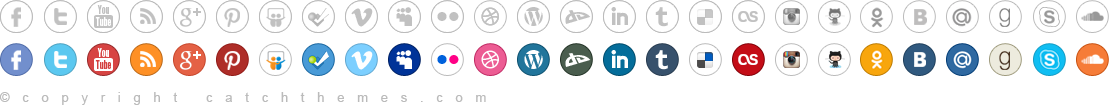
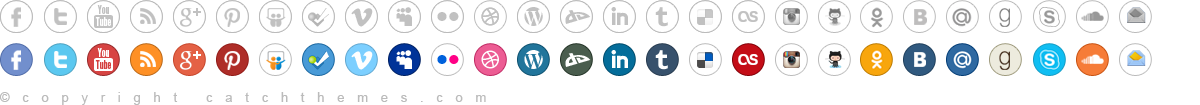
New version of Adventurous - 1.0

diff --git a/inc/panel/admin.min.css b/inc/panel/admin.min.css
@@ -1,1 +1,1 @@
-#adventurous_ad_tabs:after,#catchthemes .row:after,#catchthemes:after,#theme-option-title:after,#theme-support:after{content:"\0020";display:block;height:0;clear:both;visibility:hidden}.clear{clear:both}#catchthemes{background-color:#fff;box-shadow:0 2px 6px rgba(100,100,100,.3);margin:10px 20px 10px 0;padding-bottom:30px}#catchthemes .updated{display:inline;float:right}#catchthemes #theme-option-header{background-color:#3A3D41;padding:10px 20px 20px}#catchthemes #theme-social{float:right;width:330px}#catchthemes #theme-social ul li{display:inline;float:right}#catchthemes #theme-option-title{float:left}#catchthemes #theme-option-title .title{color:#fff;float:left;font-size:21px;line-height:53px;padding:0 10px 0 0;text-shadow:none}#catchthemes #theme-option-title .logo{float:left;padding:0}#catchthemes #theme-support{clear:both;text-align:right}#catchthemes #theme-support ul li{display:inline}#catchthemes #theme-support a{opacity:.8;-moz-opacity:.8}#catchthemes #theme-support a:hover{opacity:1;-moz-opacity:1}#catchthemes .tabNavigation{background-color:#000;margin:0 auto;text-align:center;font:13px Georgia,"Times New Roman","Bitstream Charter",Times,serif;line-height:18px}#catchthemes .tabNavigation li{display:inline-block;margin:0}#catchthemes .tabNavigation li a{color:#EEE;display:block;font-size:15px;line-height:38px;outline:0;padding:0 15px;text-decoration:none;text-transform:capitalize}#catchthemes .tabNavigation li a:hover,#catchthemes .tabNavigation li.ui-state-active a{background-color:#dfdfdf;color:#000}#catchthemes .option-container{margin:0 auto;width:98%}#catchthemes .tabNavigation .ui-tabs-selected a{background:url('../../../../../wp-admin/images/menu-bits.gif') repeat-x left top #E0E0E0;border-color:#aaa!important;color:#000}#catchthemes h3.option-toggle{-webkit-border-top-left-radius:3px;-webkit-border-top-right-radius:3px;-moz-border-radius-topleft:3px;-moz-border-radius-topright:3px;border-top-left-radius:3px;border-top-right-radius:3px;margin:20px 0 0;border:1px solid #dfdfdf;background-color:#F1F1F1;background-image:-ms-linear-gradient(top,#f9f9f9,#ececec);background-image:-moz-linear-gradient(top,#f9f9f9,#ececec);background-image:-o-linear-gradient(top,#f9f9f9,#ececec);background-image:-webkit-gradient(linear,left top,left bottom,from(#f9f9f9),to(#ececec));background-image:-webkit-linear-gradient(top,#f9f9f9,#ececec);background-image:linear-gradient(top,#f9f9f9,#ececec);height:34px;line-height:34px;font-size:15px;font-weight:400;float:left;padding:0;width:99%}#catchthemes h3.option-toggle a{background:url(images/arrow-light.png) 99% 50% no-repeat;color:#464646;padding-left:10px;text-decoration:none;display:block;text-shadow:#fff 0 1px 0}#catchthemes h3.option-active a,#catchthemes h3.option-toggle a:hover{background:url(images/arrow-dark.png) 99% 50% no-repeat;color:#444}#catchthemes .option-content{-webkit-border-bottom-right-radius:3px;-webkit-border-bottom-left-radius:3px;-moz-border-radius-bottomright:3px;-moz-border-radius-bottomleft:3px;border-bottom-right-radius:3px;border-bottom-left-radius:3px;margin:0;padding:15px 0 0;border:1px solid #dfdfdf;border-top:none;background:#fcfcfc;overflow:hidden;font-size:13px;clear:both;color:#333;width:99%}#catchthemes .option-content .row{padding:0 15px 15px}#catchthemes .page-slider .option-content .row,#catchthemes .post-slider .option-content .row{padding:15px}#catchthemes .option-content .col{display:inline;float:left}#catchthemes .option-content .col-1{font-weight:700;padding-right:15px;width:250px}#catchthemes .option-content .col-1 p{margin:0}#catchthemes .option-content .col-1 small{font-size:10px;font-weight:400}#catchthemes .option-content .col-header{display:block;font-weight:700}#catchthemes .option-content .col-options{clear:both;display:block}#catchthemes .option-content .col-options .box{display:inline-block;float:left;margin-left:10px;width:120px}#catchthemes .option-content .col-options .box.first{margin-left:0}#catchthemes .option-content .col-options .box img{max-width:100%;height:auto}#catchthemes .option-content .button-primary{background-color:#2ea2cc;border-color:#0074a2;color:#fff;text-decoration:none}#catchthemes .repeat-content-wrap{border:1px solid #ccc;margin:10px}#catchthemes .repeat-content-wrap h2{font-size:14px;font-weight:700;line-height:1.5;padding:10px 15px}#catchthemes .option-content select[multiple]{min-height:200px;width:360px}#catchthemes .option-content .wp-editor-container{width:600px}#catchthemes .option-content .wp-editor-area{min-height:130px}#catchthemes #upgradepro{clear:left;float:right;padding-bottom:20px}#catchthemes #upgradepro .button{color:#fff;border:none;padding:0 16px;text-shadow:none;opacity:.8;-moz-opacity:.8;filter:alpha(opacity=80);font-size:14px;height:34px;line-height:36px;-webkit-border-radius:15px;-moz-border-radius:15px;border-radius:15px;text-transform:uppercase;background:none #5E8C10}#catchthemes #upgradepro a:hover{opacity:1;-moz-opacity:1;filter:alpha(opacity=100)}#catchthemes .button.donate{background:none #5e8c10;color:#fff;font-weight:700;text-shadow:none}@media screen and (max-width:780px){#catchthemes .option-content .col{width:100%}#catchthemes .option-content input[type=text],#catchthemes .option-content textarea{width:98%}}
+#adventurous_ad_tabs:after,#catchthemes .row:after,#catchthemes:after,#theme-option-title:after,#theme-support:after{content:"\0020";display:block;height:0;clear:both;visibility:hidden}.clear{clear:both}#catchthemes{background-color:#fff;box-shadow:0 2px 6px rgba(100,100,100,.3);margin:10px 20px 10px 0;padding-bottom:30px}#catchthemes .updated{display:inline;float:right}#catchthemes #theme-option-header{background-color:#3A3D41;padding:10px 20px 20px}#catchthemes #theme-social{float:right;width:330px}#catchthemes #theme-social ul li{display:inline;float:right}#catchthemes #theme-option-title{float:left}#catchthemes #theme-option-title .title{color:#fff;float:left;font-size:21px;line-height:53px;padding:0 10px 0 0;text-shadow:none}#catchthemes #theme-option-title .logo{float:left;padding:0}#catchthemes #theme-support{clear:both;text-align:right}#catchthemes #theme-support ul li{display:inline}#catchthemes #theme-support a{opacity:.8;-moz-opacity:.8}#catchthemes #theme-support a:hover{opacity:1;-moz-opacity:1}#catchthemes .tabNavigation{background-color:#000;margin:0 auto;text-align:center;font:13px Georgia,"Times New Roman","Bitstream Charter",Times,serif;line-height:18px}#catchthemes .tabNavigation li{display:inline-block;margin:0}#catchthemes .tabNavigation li a{color:#EEE;display:block;font-size:15px;line-height:38px;outline:0;padding:0 15px;text-decoration:none;text-transform:capitalize}#catchthemes .tabNavigation li a:hover,#catchthemes .tabNavigation li.ui-state-active a{background-color:#dfdfdf;color:#000}#catchthemes .option-container{margin:0 auto;width:98%}#catchthemes .tabNavigation .ui-tabs-selected a{background:url('../../../../../wp-admin/images/menu-bits.gif') repeat-x left top #E0E0E0;border-color:#aaa!important;color:#000}#catchthemes h3.option-toggle{-webkit-border-top-left-radius:3px;-webkit-border-top-right-radius:3px;-moz-border-radius-topleft:3px;-moz-border-radius-topright:3px;border-top-left-radius:3px;border-top-right-radius:3px;margin:20px 0 0;border:1px solid #dfdfdf;background-color:#F1F1F1;background-image:-ms-linear-gradient(top,#f9f9f9,#ececec);background-image:-moz-linear-gradient(top,#f9f9f9,#ececec);background-image:-o-linear-gradient(top,#f9f9f9,#ececec);background-image:-webkit-gradient(linear,left top,left bottom,from(#f9f9f9),to(#ececec));background-image:-webkit-linear-gradient(top,#f9f9f9,#ececec);background-image:linear-gradient(top,#f9f9f9,#ececec);height:34px;line-height:34px;font-size:15px;font-weight:400;float:left;padding:0;width:99%}#catchthemes h3.option-toggle a{background:url(images/arrow-light.png) 99% 50% no-repeat;color:#464646;padding-left:10px;text-decoration:none;display:block;text-shadow:#fff 0 1px 0}#catchthemes h3.option-active a,#catchthemes h3.option-toggle a:hover{background:url(images/arrow-dark.png) 99% 50% no-repeat;color:#444}#catchthemes .option-content{-webkit-border-bottom-right-radius:3px;-webkit-border-bottom-left-radius:3px;-moz-border-radius-bottomright:3px;-moz-border-radius-bottomleft:3px;border-bottom-right-radius:3px;border-bottom-left-radius:3px;margin:0;padding:15px 0 0;border:1px solid #dfdfdf;border-top:none;background:#fcfcfc;overflow:hidden;font-size:13px;clear:both;color:#333;width:99%}#catchthemes .option-content .row{padding:0 15px 15px}#catchthemes .page-slider .option-content .row,#catchthemes .post-slider .option-content .row{padding:15px}#catchthemes .option-content .col{display:inline;float:left}#catchthemes .option-content .col-1{font-weight:700;padding-right:15px;width:250px}#catchthemes .option-content .col-1 p{margin:0}#catchthemes .option-content .col-1 small{font-size:10px;font-weight:400}#catchthemes .option-content .col-header{display:block;font-weight:700}#catchthemes .option-content .col-options{clear:both;display:block}#catchthemes .option-content .col-options .box{display:inline-block;float:left;margin-left:10px;width:120px}#catchthemes .option-content .col-options .box.first{margin-left:0}#catchthemes .option-content .col-options .box img{max-width:100%;height:auto}#catchthemes .option-content .button-primary{background-color:#2ea2cc;border-color:#0074a2;color:#fff;text-decoration:none}#catchthemes .repeat-content-wrap{border:1px solid #ccc;margin:10px}#catchthemes .repeat-content-wrap h2{font-size:14px;font-weight:700;line-height:1.5;padding:10px 15px}#catchthemes .option-content select[multiple]{min-height:200px;width:360px}#catchthemes .option-content .wp-editor-container{width:600px}#catchthemes .option-content .wp-editor-area{min-height:130px}#catchthemes #upgradepro{float:right;padding-bottom:20px}#catchthemes #upgradepro .button{color:#fff;border:none;padding:0 16px;text-shadow:none;opacity:.8;-moz-opacity:.8;filter:alpha(opacity=80);font-size:14px;height:34px;line-height:36px;-webkit-border-radius:15px;-moz-border-radius:15px;border-radius:15px;text-transform:uppercase;background:none #5E8C10}#catchthemes #upgradepro a:hover{opacity:1;-moz-opacity:1;filter:alpha(opacity=100)}#catchthemes .button.donate{background:none #5e8c10;color:#fff;font-weight:700;text-shadow:none}@media screen and (max-width:780px){#catchthemes .option-content .col{width:100%}#catchthemes .option-content input[type=text],#catchthemes .option-content textarea{width:98%}}

diff --git a/style.css b/style.css
@@ -4,7 +4,7 @@ Theme URI: http://catchthemes.com/themes/adventurous
 Author: Catch Themes Team
 Author URI: http://catchthemes.com
 Description: Adventurous is a Simple, Clean, Minimal, Lightweight, Box-Shaped and Full-Width Responsive WordPress Theme. It is based in HTML5, CSS3 and very own Catch Themes easy to use Theme Options panel, which make this theme highly customizable and flexible.  Make your beautiful yet professional website in no time. Adventurous is a multi-purpose theme and is suitable for Photographers, Bloggers and Businesses. This theme is translation ready and also currently translated in Brazilian Portuguese and Hungarian. Check out Theme Instructions at http://catchthemes.com/theme-instructions/adventurous/, Support at http://catchthemes.com/support/ and Demo at http://catchthemes.com/demo/adventurous/ 
-Version: 0.8
+Version: 1.0
 License: GNU General Public License, version 3 (GPLv3)
 License URI: http://www.gnu.org/licenses/gpl-3.0.txt
 Tags: black, blue, gray, green, white, dark,light, one-column, two-columns, left-sidebar, right-sidebar, fixed-layout, fluid-layout, responsive-layout, custom-background, custom-colors, custom-header, custom-menu, featured-image-header, featured-images, flexible-header, front-page-post-form, full-width-template, post-formats, sticky-post, theme-options, threaded-comments, translation-ready, holiday, photoblogging
@@ -1588,8 +1588,39 @@ object {
 }
 
 
+/* =Scrollup
+----------------------------------------------- */
+
+a#scrollup {
+	background-color: #000;
+	bottom: 20px;
+	border-radius: 5px;
+	-moz-border-radius: 5px;
+	-webkit-border-radius: 5px;
+	color: #fff;
+	display: none;
+	-webkit-font-smoothing: antialiased;
+	font: normal 24px/1 'Genericons';
+	padding: 5px;
+	position: fixed;
+	right: 20px;
+	text-decoration: none;
+	vertical-align: top;
+	opacity: 0.5;
+	filter:alpha(opacity=50); /* For IE8 and earlier */
+}
+a#scrollup:before {
+	content: '\f432';
+}
+a#scrollup:hover {
+	opacity: 1;
+	filter:alpha(opacity=100); /* For IE8 and earlier */
+}
+
+
 /* =Jetpack plugins
 ----------------------------------------------- */
+
 /* Infinite Scroller */
 #content #infinite-handle {
     display: block;
@@ -1972,6 +2003,12 @@ ul.social-profile li.soundcloud a {
 }
 ul.social-profile li.soundcloud a:hover {
 	background-position: -1076px -43px;
+}
+ul.social-profile li.email a {
+	background-position: -1119px 0;
+}
+ul.social-profile li.email a:hover {
+	background-position: -1119px -43px;
 }
 ul.social-profile li.custom-social a {
 	background: none;

diff --git a/js/adventurous-custom.min.js b/js/adventurous-custom.min.js
@@ -1,0 +1,1 @@
+jQuery(document).ready(function(){function t(e,t,n,r){var i;e.clone().attr("id",n).removeClass().attr("class",r).appendTo(t);i=t.find("> ul");i.find(".menu_slide").remove();i.find("li:first").addClass("menu-mobile-first-item");t.click(function(){if(jQuery(this).hasClass("closed")){jQuery(this).removeClass("closed").addClass("opened");i.slideDown(500)}else{jQuery(this).removeClass("opened").addClass("closed");i.slideUp(500)}return false});t.find("a").click(function(e){e.stopPropagation()})}var e=jQuery("#header-search");e.click(function(){var e=jQuery(this),t=e.siblings(".header-search-wrap");if(t.hasClass("displaynone")){t.css({display:"block",opacity:0}).animate({opacity:1},300)}else{t.animate({opacity:0},300)}t.toggleClass("displaynone")});if(jQuery.fn.waypoint){jQuery("#main-wrapper").waypoint({offset:10,handler:function(e){if(e==="down"){jQuery("#masthead").addClass("fixed-header")}else{jQuery("#masthead").removeClass("fixed-header")}}})}t(jQuery("#header-menu ul.menu"),jQuery("#header-mobile-menu .mobile-nav"),"header-mobile-menu-block","mobile-menu");t(jQuery("#access-secondary ul.menu"),jQuery("#secondary-mobile-menu .mobile-nav"),"secondary-mobile-menu-block","mobile-menu");jQuery("#scrollup").hide();jQuery(function(){jQuery(window).scroll(function(){if(jQuery(this).scrollTop()>1e3){jQuery("#scrollup").fadeIn()}else{jQuery("#scrollup").fadeOut()}});jQuery("#scrollup").click(function(){jQuery("body,html").animate({scrollTop:0},800);return false})})})

diff --git a/js/adventurous-custom.js b/js/adventurous-custom.js
@@ -53,6 +53,23 @@ jQuery(document).ready(function() {
 				event.stopPropagation();
 			} );
 		}		
-		
-				
+
+		//Scroll Up
+		jQuery("#scrollup").hide();
+		jQuery(function () {
+			jQuery(window).scroll(function () {
+				if (jQuery(this).scrollTop() > 1000) {
+					jQuery('#scrollup').fadeIn();
+				} else {
+					jQuery('#scrollup').fadeOut();
+				}
+			});
+			jQuery('#scrollup').click(function () {
+				jQuery('body,html').animate({
+					scrollTop: 0
+				}, 800);
+				return false;
+			});
+		});
+	
 });		

diff --git a/css/responsive.css b/css/responsive.css
@@ -372,6 +372,10 @@ and (orientation : landscape) {
 	.widget.widget_nav_menu .sb-holder a:hover {
 		color: #fff;
 	}	
+	a#scrollup {
+		font-size: 20px;
+		padding: 3px;
+	}		
 }
 
 

diff --git a/inc/panel/admin.css b/inc/panel/admin.css
@@ -226,7 +226,6 @@
 	min-height: 130px;
 }
 #catchthemes #upgradepro {
-	clear: left;
     float: right;
 	padding-bottom: 20px;
 }

diff --git a/inc/adventurous-functions.php b/inc/adventurous-functions.php
@@ -47,7 +47,7 @@ function adventurous_scripts() {
 	 * Loads up jQuery Waypoints and Custom Scripts
 	 */	
 	wp_register_script( 'waypoints', get_template_directory_uri() . '/js/waypoints.min.js', array('jquery'), '2.0.5', true);
-	wp_enqueue_script( 'adventurous-custom', get_template_directory_uri() . '/js/adventurous-custom.js', array( 'waypoints' ), '20140317', true );	
+	wp_enqueue_script( 'adventurous-custom', get_template_directory_uri() . '/js/adventurous-custom.min.js', array( 'waypoints' ), '20140317', true );	
 	
 	/**
 	 * Adds JavaScript to pages with the comment form to support
@@ -865,6 +865,11 @@ function adventurous_social_networks() {
 				$adventurous_social_networks .=
 					'<li class="soundcloud"><a href="'.esc_url( $options[ 'social_soundcloud' ] ).'" title="'.sprintf( esc_attr__( '%s on Soundcloud', 'adventurous' ),get_bloginfo( 'name' ) ).'" target="_blank">'.get_bloginfo( 'name' ).' Soundcloud </a></li>';
 			}
+			//Email
+			if ( !empty( $options[ 'social_email' ] ) ) {
+				$adventurous_social_networks .=
+					'<li class="email"><a href="mailto:'.sanitize_email( $options[ 'social_email' ] ).'" title="'.sprintf( esc_attr__( '%s on Email', 'adventurous' ),get_bloginfo( 'name' ) ).'" target="_blank">'.get_bloginfo( 'name' ).' Email </a></li>';
+			}		
 			
 			$adventurous_social_networks .='
 		</ul>';
@@ -998,3 +1003,16 @@ endif;
 
 // Load  breadcrumb in adventurous_after_hgroup_wrap hook
 add_action( 'adventurous_content_sidebar', 'adventurous_breadcrumb_display', 20 );
+
+
+/**
+ * This function loads Scroll Up Navigation
+ *
+ * @uses adventurous_after_footer action to add the code in the footer
+ */
+function adventurous_scrollup() {
+
+	echo '<a href="#masthead" id="scrollup"></a>' ;
+
+}
+add_action( 'adventurous_after_footer', 'adventurous_scrollup', 10 );

diff --git a/inc/panel/adventurous-theme-options.php b/inc/panel/adventurous-theme-options.php
@@ -1265,6 +1265,14 @@ function adventurous_theme_options_do_page() {
                                 </div>
                             </div><!-- .row -->
                             <div class="row">
+                                <div class="col col-1">
+                                    <?php _e( 'Email', 'adventurous' ); ?>
+                                </div>
+                                <div class="col col-2">
+                                    <input type="text" size="45" name="adventurous_options[social_email]" value="<?php echo sanitize_email( $options[ 'social_email' ] ); ?>" />
+                                </div>
+                            </div><!-- .row -->                            
+                            <div class="row">
                             	<input type="submit" class="button-primary" value="<?php esc_attr_e( 'Save Changes', 'adventurous' ); ?>" />
                            	</div><!-- .row -->
                         </div><!-- .option-content -->
@@ -1584,7 +1592,9 @@ function adventurous_theme_options_validate( $options ) {
 	if( isset( $input[ 'social_soundcloud' ] ) ) {
 		$input_validated[ 'social_soundcloud' ] = esc_url_raw( $input[ 'social_soundcloud' ] );
 	}		
-
+	if( isset( $input[ 'social_email' ] ) ) {
+		$input_validated[ 'social_email' ] = sanitize_email( $input[ 'social_email' ] );
+	}
 	
     // Layout settings verification
 	if( isset( $input[ 'sidebar_layout' ] ) ) {

diff --git a/inc/panel/adventurous-theme-options-defaults.php b/inc/panel/adventurous-theme-options-defaults.php
@@ -91,6 +91,7 @@ $adventurous_options_defaults = array(
 	'social_goodreads'						=> '',
 	'social_skype'							=> '',
 	'social_soundcloud'						=> '',
+	'social_email'							=> '',
 	'footer_code'							=> '<div class="copyright">'. esc_attr__( 'Copyright', 'adventurous' ) . ' &copy; [the-year] [site-link]. '. esc_attr__( 'All Rights Reserved', 'adventurous' ) . '.</div><div class="powered">'. esc_attr__( 'Powered by', 'adventurous' ) . ': [wp-link] | '. esc_attr__( 'Theme', 'adventurous' ) . ': [theme-link]</div>',
 	'reset_footer'							=> '2'
 );

diff --git a/footer.php b/footer.php
@@ -73,6 +73,8 @@
     <?php 
     /** 
      * adventurous_after_footer hook
+	 *
+	 * @hooked adventurous_scrollup - 10
      */
     do_action( 'adventurous_after_footer' );  ?> 
     
